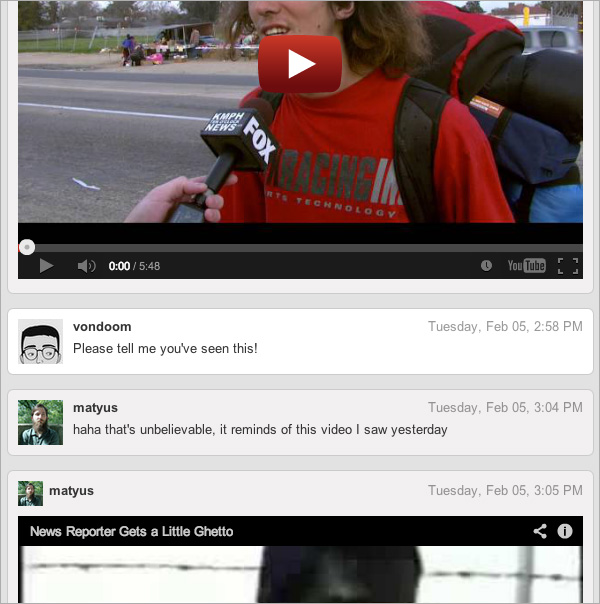
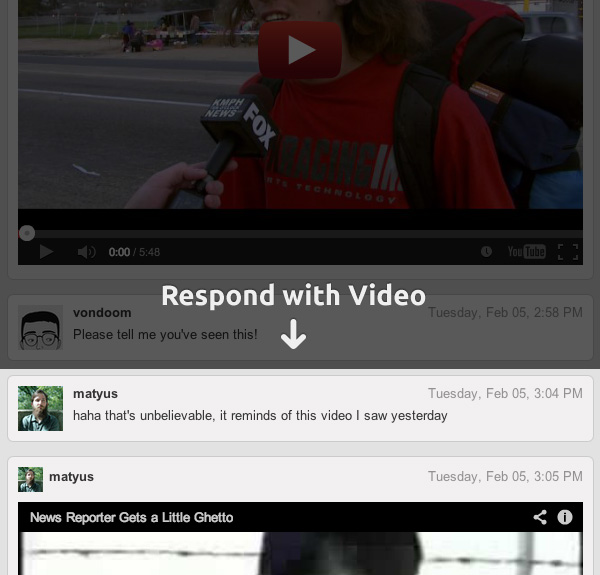
hide shelby mail header on mobile after scroll. update copy and screenshot on shelby mail help

diff --git a/app/assets/javascripts/app/views/discussion_roll/standalone_discussion_roll.view.js b/app/assets/javascripts/app/views/discussion_roll/standalone_discussion_roll.view.js
@@ -20,7 +20,14 @@ libs.shelbyGT.StandaloneDiscussionRollView = Support.CompositeView.extend({
         limit: 3 // needs to match firstFetchLimit in DiscussionRollConversationView
         },
       success: function(model, resp){
-        setTimeout(function(){ $("body").scrollTop(10000000000); }, 100);
+        setTimeout(function(){ $("body").scrollTop(10000000000); }, 200);
+        
+        //on mobile, hide the header after the user has scrolled
+        setTimeout(function(){
+          $(document).one("scroll", function(e){
+            $('.js-shelby-header').addClass("user-did-scroll");
+          });
+        }, 2000);
       },
       error: function(a){
         $(".js-discussion-roll-conversation-list").html("<h1>Something went wrong :(</h1><h1>Try reloading...</h1>");

diff --git a/app/assets/stylesheets/partials/_discussion_roll.scss b/app/assets/stylesheets/partials/_discussion_roll.scss
@@ -59,6 +59,12 @@ $main-column-width: 45em;
 //  Discussion Framework
 //------------------------------------------------------------------------------
 .discussion__header {
+  //mobile animates the opacity, see _media-querires.scss
+  @include transition-property('opacity');
+  @include transition-duration(0.5s);
+  @include transition-timing-function(ease-in);
+  @include transition-delay(0s);
+  
   left: 0;
   position: fixed;
   top: 0;

diff --git a/app/assets/stylesheets/partials/_media-queries.scss b/app/assets/stylesheets/partials/_media-queries.scss
@@ -95,6 +95,11 @@
     //------------------------------------------------------------------------------
     //  Shelby Chat
 
+    // hide header after user scrolls
+    .discussion__header.user-did-scroll {
+      opacity: 0;
+    }
+
     //shrink "Search" button
     .search_module__submit {
       padding: 0.5em;
